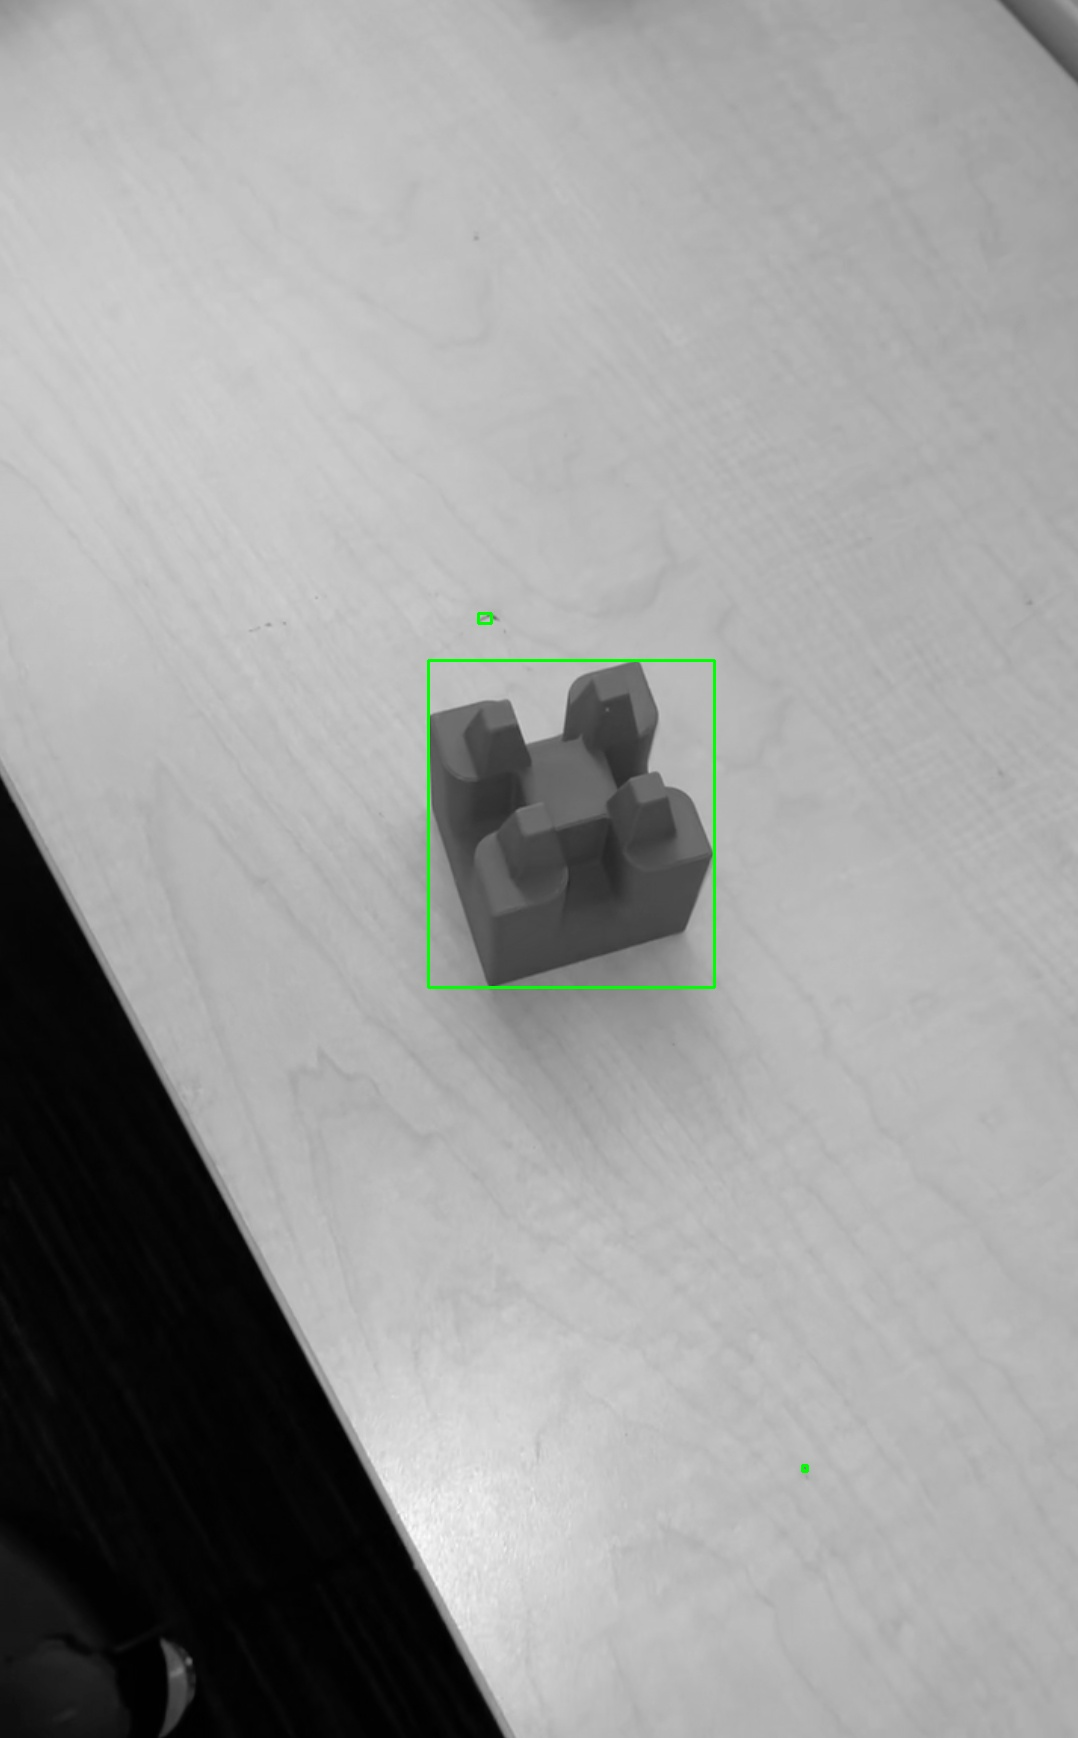
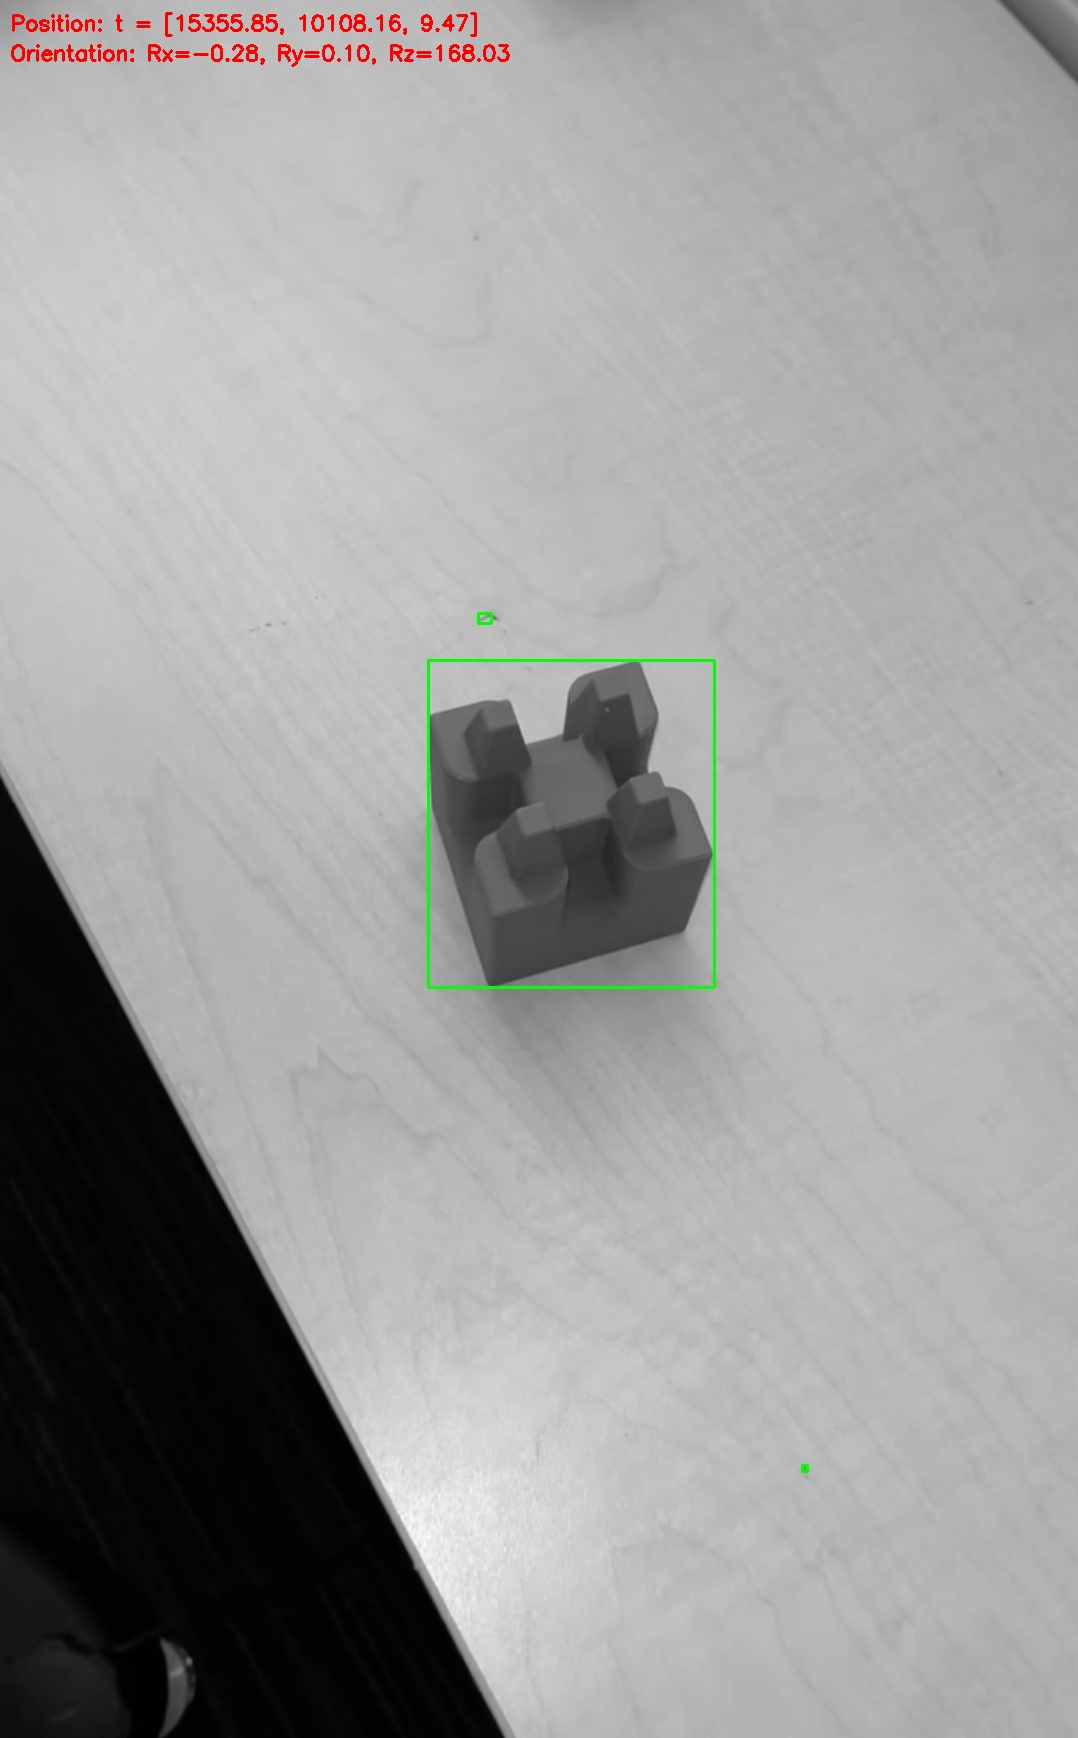
last for now

Changed region(s): [[0.0, 0.0, 0.4592, 0.0621]]

diff --git a/in_gen/local_testing/test.py b/in_gen/local_testing/test.py
@@ -113,9 +113,8 @@ cropped_filename = "cropped.jpg"
 process_image(input_filename, output_filename, cropped_filename)
 
 
-# now (assuming we have multiple stls, ask gpt which one it is)
-
-# since we have only one right now, just assume it as block.stl
+# Now (assuming we have multiple STLs, ask GPT which one it is)
+# Since we have only one right now, just assume it as block.stl
 selected_stl = "block.stl"
 
 
@@ -151,15 +150,60 @@ if len(matches) > 10:
     H, mask = cv2.findHomography(src_pts, dst_pts, cv2.RANSAC, 5.0)
     if H is not None:
         # Decompose the homography matrix to extract rotation and translation
-        _, R, t, _ = cv2.decomposeHomographyMat(H, np.eye(3))
+        num_solutions, Rs, ts, normals = cv2.decomposeHomographyMat(
+            H, np.eye(3))
+        print(
+            f"Number of solutions from homography decomposition: {num_solutions}")
+
+        # We'll use the first solution as an example
+        R = Rs[0]
+        t = ts[0]
+        normal = normals[0]
+
+        # Convert rotation matrix to Euler angles (Rx, Ry, Rz)
+        def rotationMatrixToEulerAngles(R):
+            sy = np.sqrt(R[0, 0] * R[0, 0] + R[1, 0] * R[1, 0])
+            singular = sy < 1e-6
+
+            if not singular:
+                x = np.arctan2(R[2, 1], R[2, 2])
+                y = np.arctan2(-R[2, 0], sy)
+                z = np.arctan2(R[1, 0], R[0, 0])
+            else:
+                x = np.arctan2(-R[1, 2], R[1, 1])
+                y = np.arctan2(-R[2, 0], sy)
+                z = 0
+
+            return np.degrees(np.array([x, y, z]))
+
+        Rx, Ry, Rz = rotationMatrixToEulerAngles(R)
+        print(
+            f"\nOrientation (Euler angles): Rx={Rx:.2f}, Ry={Ry:.2f}, Rz={Rz:.2f}")
+        print(f"Position (translation vector): t={t.flatten()}")
+
+        # Load the output image and annotate it
+        output_image = cv2.imread(output_filename)
+
+        # Add text annotations for position and orientation
+        font = cv2.FONT_HERSHEY_SIMPLEX
+        text = f"Position: t = [{t[0][0]:.2f}, {t[1][0]:.2f}, {t[2][0]:.2f}]"
+        cv2.putText(output_image, text, (10, 30), font, 0.7, (0, 0, 255), 2)
+
+        text = f"Orientation: Rx={Rx:.2f}, Ry={Ry:.2f}, Rz={Rz:.2f}"
+        cv2.putText(output_image, text, (10, 60), font, 0.7, (0, 0, 255), 2)
+
+        # Save the annotated image
+        cv2.imwrite(output_filename, output_image)
+        print(f"Annotated image saved as {output_filename}")
+
     else:
+        print("Homography decomposition failed. R and t are not available.")
         R, t = None, None
 else:
+    print("Not enough matches to compute homography.")
     H, R, t = None, None, None
 
 # Save matched image for inspection
 matched_image_path = 'matched_features.jpg'
 cv2.imwrite(matched_image_path, matched_image)
-
-# Output results
-print(matched_image_path, H, R, t)
+print(f"\nMatched features image saved as {matched_image_path}")
